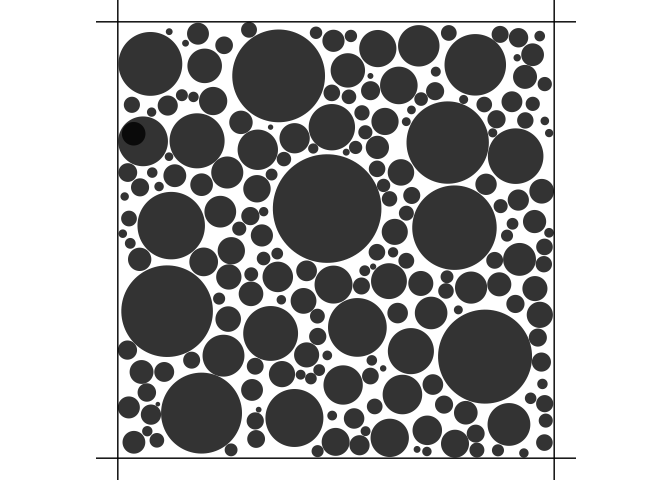
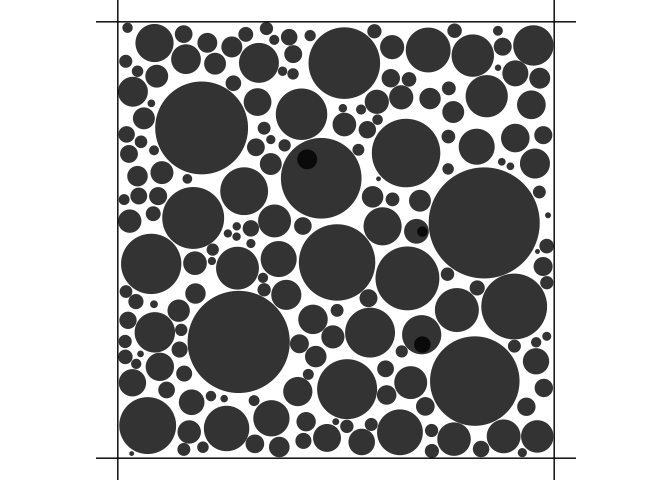
Switch to tractoverse organization.

Changed region(s): [[0.1562, 0.0312, 0.8438, 0.9688]]

diff --git a/README.md b/README.md
@@ -5,10 +5,10 @@
 
 <!-- badges: start -->
 
-[![R-CMD-check](https://github.com/LMJL-Alea/midi/actions/workflows/R-CMD-check.yaml/badge.svg)](https://github.com/LMJL-Alea/midi/actions/workflows/R-CMD-check.yaml)
+[![R-CMD-check](https://github.com/tractoverse/midi/actions/workflows/R-CMD-check.yaml/badge.svg)](https://github.com/tractoverse/midi/actions/workflows/R-CMD-check.yaml)
 [![Codecov test
-coverage](https://codecov.io/gh/LMJL-Alea/midi/graph/badge.svg)](https://app.codecov.io/gh/LMJL-Alea/midi)
-[![pkgdown](https://github.com/LMJL-Alea/midi/actions/workflows/pkgdown.yaml/badge.svg)](https://github.com/LMJL-Alea/midi/actions/workflows/pkgdown.yaml)
+coverage](https://codecov.io/gh/tractoverse/midi/graph/badge.svg)](https://app.codecov.io/gh/tractoverse/midi)
+[![pkgdown](https://github.com/tractoverse/midi/actions/workflows/pkgdown.yaml/badge.svg)](https://github.com/tractoverse/midi/actions/workflows/pkgdown.yaml)
 [![CRAN
 status](https://www.r-pkg.org/badges/version/midi)](https://CRAN.R-project.org/package=midi)
 <!-- badges: end -->
@@ -50,7 +50,7 @@ millimeters, therefore containing many different tissue types. In
 addition, depending on the experimental conditions (number, duration and
 strength of the gradients and time between two consecutive gradients),
 the MR signal might not be sensitive to all tissue types in the voxel.
-The [**midi**](https://lmjl-alea.github.io/midi/) package is meant to
+The [**midi**](https://tractoverse.github.io/midi/) package is meant to
 list the tissue models that have been proposed in the literature and to
 provide tools to simulate the MR signal attenuation predicted by these
 models under different experimental conditions.
@@ -78,7 +78,7 @@ You can install the development version of midi from
 
 ``` r
 # install.packages("devtools")
-devtools::install_github("lmjl-alea/midi")
+devtools::install_github("tractoverse/midi")
 ```
 
 ## Example
@@ -148,5 +148,5 @@ plot(out)
 A 3D visualization of the cylinder bundle powered by the
 [**plotly**](https://plotly.com/r/) package can be obtained by calling
 `plot3d()`. See the documentation online at
-<https://lmjl-alea.github.io/midi/reference/plot3d.html> for more
+<https://tractoverse.github.io/midi/reference/plot3d.html> for more
 details.